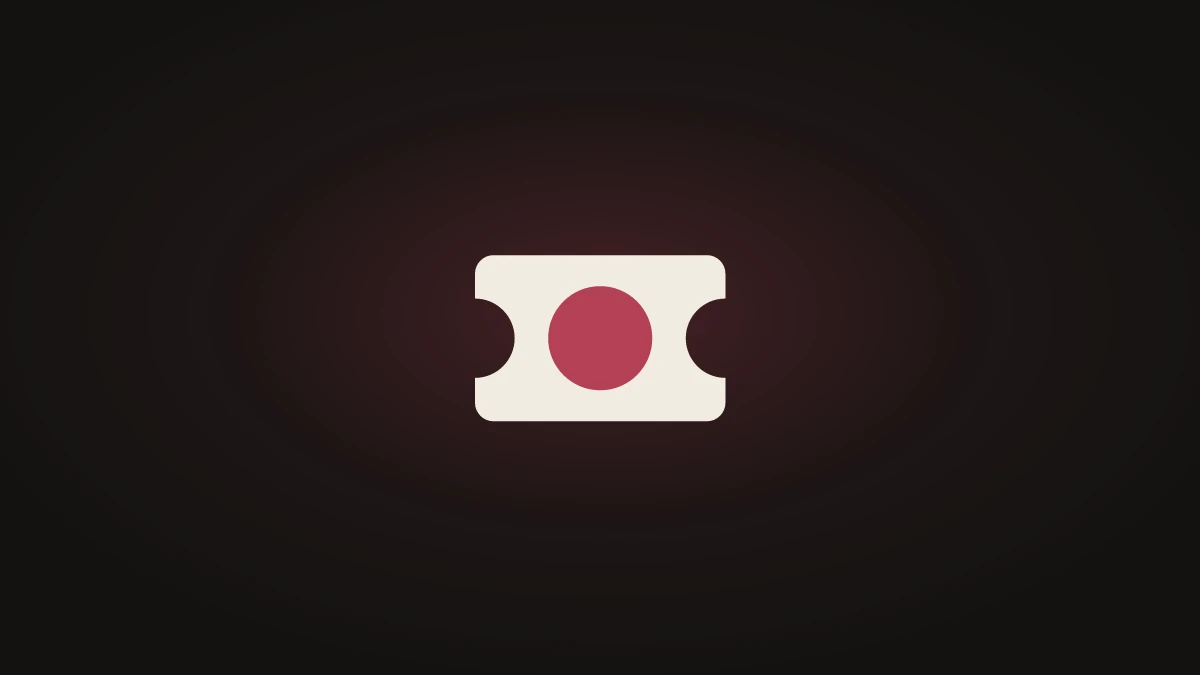
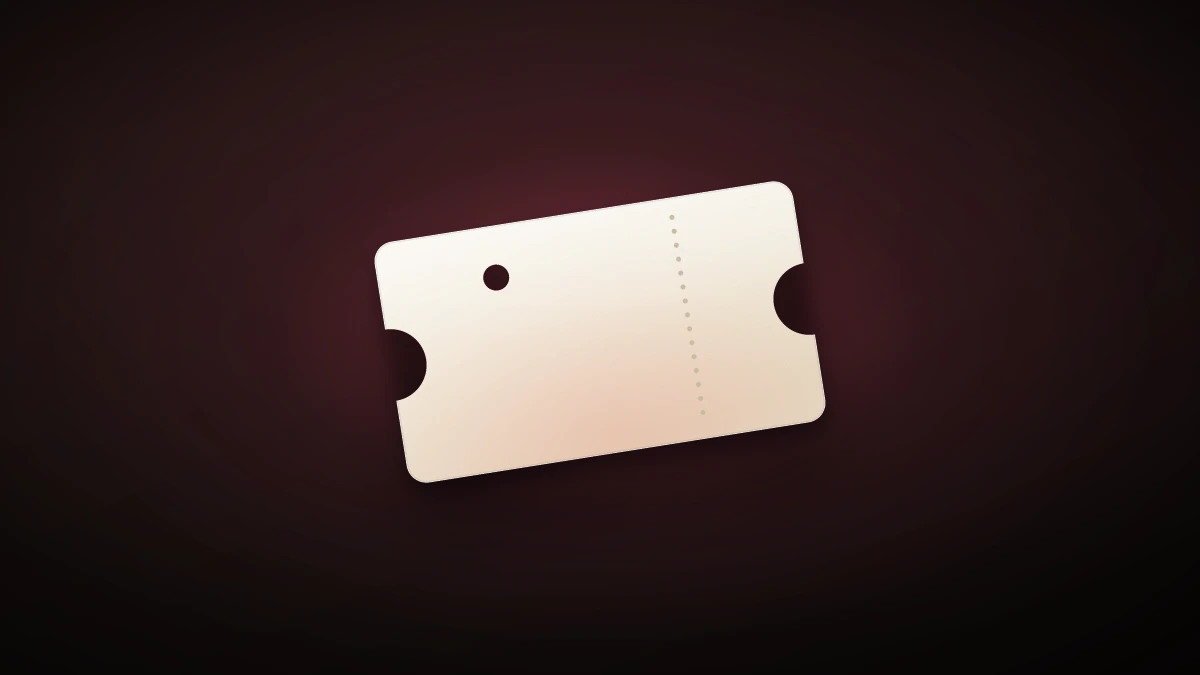
Redo the Stub tile: backlit ticket stub
The first mark read as a flag, a red disc centred on white, and sat
flat next to the other tiles. Replace it with a bone ticket stub tilted
off-axis, perforation, waist notches and a punch hole, lit from behind
by a warm oxblood bloom with reflected light on the paper, a soft cast
shadow, vignette and fine grain.

Changed region(s): [[0.3083, 0.2178, 0.7092, 0.7156], [0.4625, 0.1244, 0.5242, 0.1556], [0.555, 0.1244, 0.5858, 0.1556]]

diff --git a/src/content/projects.ts b/src/content/projects.ts
@@ -41,6 +41,6 @@ export const projects: Project[] = [
     description:
       "Log films and shows as you watch, rate them next to someone else's score, and see IMDb, Rotten Tomatoes, and Metacritic on every title. Pair up for a shared list, or keep your own.",
     url: links.stub,
-    previewImage: `${import.meta.env.BASE_URL}stub-mark-wide.webp`,
+    previewImage: `${import.meta.env.BASE_URL}stub-mark-wide.webp?v=2`,
   },
 ]
